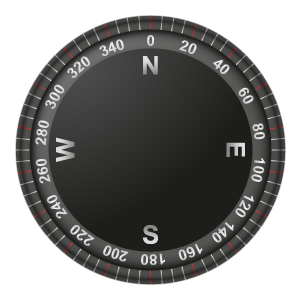
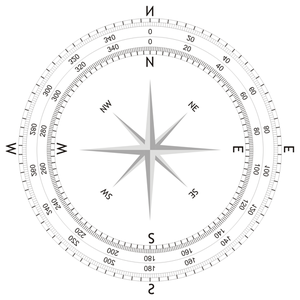
Updates compass.png and rotation direction

diff --git a/www/index.html b/www/index.html
@@ -85,7 +85,7 @@
         var surfaceContext = surface.getContext('2d');
 
         // Clear the canvas to White
-        surfaceContext.fillStyle = "rgb(255,255,255)";
+        surfaceContext.fillStyle = "rgb(0,128,128)";
         surfaceContext.fillRect(0, 0, surface.width, surface.height);
 
         // Save the current context
@@ -93,7 +93,7 @@
         // Translate to the center point of our image
         surfaceContext.translate(compass_img.width * 0.5, compass_img.height * 0.5);
         // Perform the rotation
-        surfaceContext.rotate(DegToRad(angle));
+        surfaceContext.rotate(DegToRad(360-angle));
         // Translate back to the top left of our image
         surfaceContext.translate(-compass_img.width * 0.5, -compass_img.height * 0.5);
         // Finally we draw the image
